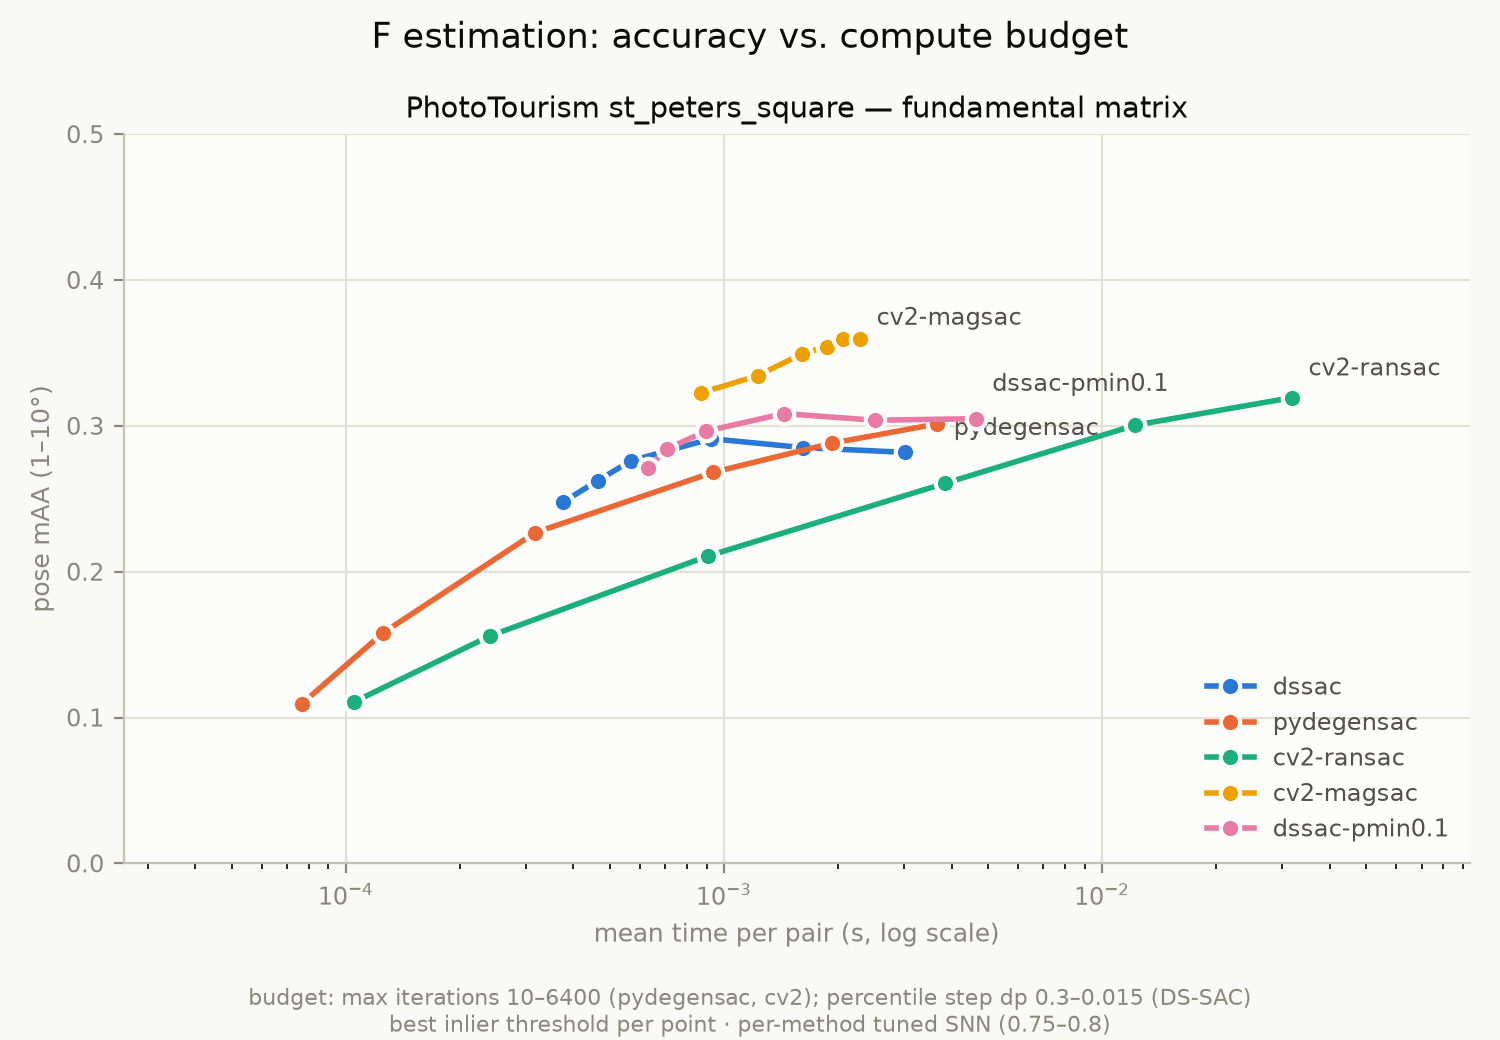
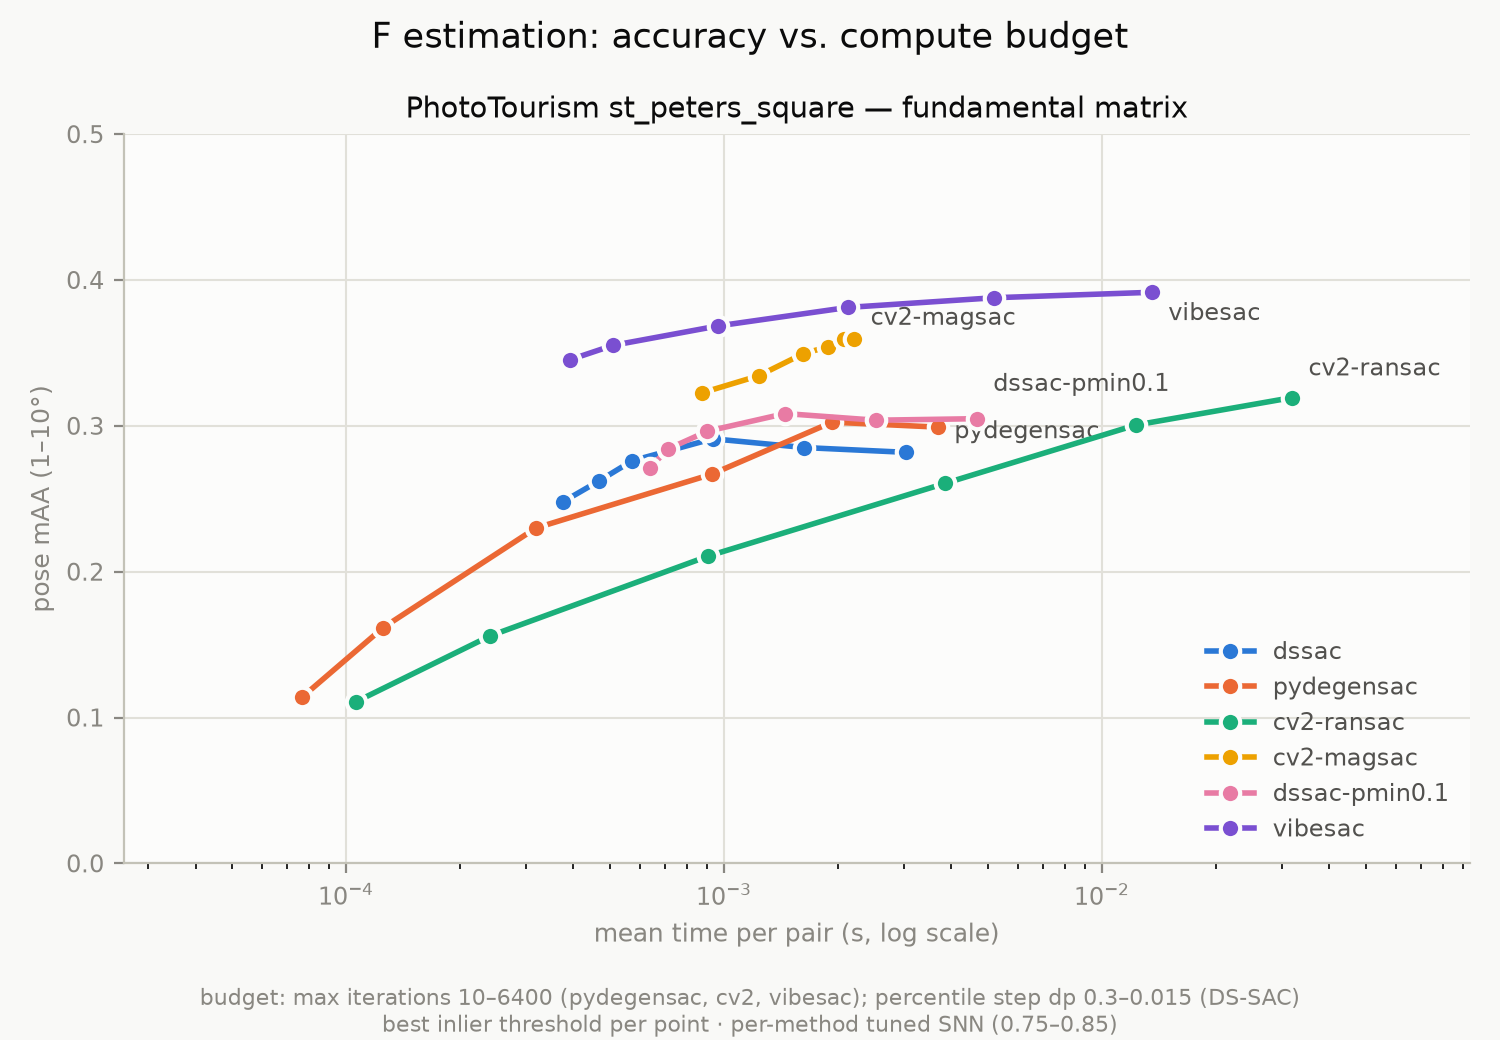
fix: guard vibesac's minimal-sample loop and finish its F benchmark
vibesac's 7-point rejection sampler spins forever when a pair has fewer
than min_samples=7 tentative matches (1096/4950 pairs at SNN<=0.6); guard
before calling it. Also fixes a signature mismatch introduced alongside
vibesac's budget factory: time_maa_f.py now passes a 4th scores arg to
every F_BUDGETS factory, but the other three never accepted it, so any
fresh run of the time-mAA sweep silently failed every call.

Results: vibesac wins the SNN sweep outright (0.388 mAA@10 at SNN 0.85,
vs 0.359 for MAGSAC++) and dominates the whole time-mAA frontier, while
also degrading far more gracefully on unfiltered input than every other
method. README, table, and figure updated accordingly.

Claude-Session: https://claude.ai/code/session_01J6A14X131AP2hxqf9wuspJ

diff --git a/bench/f_methods.py b/bench/f_methods.py
@@ -50,6 +50,10 @@ def run_pydegensac_f(pts1, pts2, th, scores=None):
 
 def _vibesac_method(max_trials=MAX_ITERS):
     def run(pts1, pts2, th, scores=None):
+        # vibesac's minimal-sample rejection loop spins forever if asked for
+        # 7 unique indices out of fewer than 7 points; guard before it hangs.
+        if len(pts1) < 7:
+            return None, np.zeros(len(pts1), bool)
         # PROSAC assumes quality-ordered input: sort by SNN ratio ascending
         # (best first) and map the returned mask back to the input order.
         if scores is not None:
@@ -82,7 +86,7 @@ if _vibesac is not None:
 
 def _dssac_f_budget(p_min):
     def factory(dp):
-        def run(pts1, pts2, th):
+        def run(pts1, pts2, th, scores=None):
             return dssac.find_fundamental(pts1, pts2, threshold=th, dp=dp,
                                           p_min=p_min)
         return run
@@ -90,7 +94,7 @@ def _dssac_f_budget(p_min):
 
 
 def _pydegensac_f_budget(max_iters):
-    def run(pts1, pts2, th):
+    def run(pts1, pts2, th, scores=None):
         F, mask = pydegensac.findFundamentalMatrix(pts1, pts2, th, CONF,
                                                    max_iters)
         if F is None:
@@ -99,9 +103,13 @@ def _pydegensac_f_budget(max_iters):
     return run
 
 
+def _vibesac_f_budget(max_trials):
+    return _vibesac_method(max_trials)
+
+
 def _cv2_f_budget(flag):
     def factory(max_iters):
-        def run(pts1, pts2, th):
+        def run(pts1, pts2, th, scores=None):
             F, mask = cv2.findFundamentalMat(pts1, pts2, flag, th,
                                              confidence=CONF,
                                              maxIters=max_iters)
@@ -124,3 +132,5 @@ F_BUDGETS = {
     "cv2-ransac": (_ITER_BUDGETS_F, _cv2_f_budget(cv2.FM_RANSAC), 0.8),
     "cv2-magsac": (_ITER_BUDGETS_F, _cv2_f_budget(cv2.USAC_MAGSAC), 0.75),
 }
+if _vibesac is not None:
+    F_BUDGETS["vibesac"] = (_ITER_BUDGETS_F, _vibesac_f_budget, 0.85)

diff --git a/bench/plot_time_maa_f.py b/bench/plot_time_maa_f.py
@@ -49,7 +49,7 @@ def main():
     for ax, sc in zip(axes[0], scenes):
         draw_panel(ax, curves[sc], f"PhotoTourism {sc} — fundamental matrix",
                    stagger={"dssac": None, "pydegensac": -4, "cv2-ransac": 8,
-                            "dssac-pmin0.1": 10})
+                            "dssac-pmin0.1": 10, "vibesac": -10})
         ax.set_xlabel("mean time per pair (s, log scale)", color=MUTED, fontsize=9)
     axes[0, 0].set_ylabel("pose mAA (1–10°)", color=MUTED, fontsize=9)
     axes[0, 0].set_ylim(0, 0.5)
@@ -58,8 +58,8 @@ def main():
     fig.suptitle("F estimation: accuracy vs. compute budget",
                  color=INK, fontsize=12.5)
     fig.text(0.5, 0.008,
-             "budget: max iterations 10–6400 (pydegensac, cv2); percentile step dp 0.3–0.015 (DS-SAC)\n"
-             "best inlier threshold per point · per-method tuned SNN (0.75–0.8)",
+             "budget: max iterations 10–6400 (pydegensac, cv2, vibesac); percentile step dp 0.3–0.015 (DS-SAC)\n"
+             "best inlier threshold per point · per-method tuned SNN (0.75–0.85)",
              ha="center", fontsize=8, color=MUTED)
     fig.tight_layout(rect=(0, 0.06, 1, 1))
     out = ROOT / args.out

diff --git a/bench/plot_time_maa.py b/bench/plot_time_maa.py
@@ -24,6 +24,7 @@ COLORS = {
     "cv2-ransac": "#1baf7a",
     "cv2-magsac": "#eda100",
     "dssac-pmin0.1": "#e87ba4",  # only present in the F benchmark
+    "vibesac": "#7a4fd1",  # only present in the F benchmark
 }
 SURFACE, PAGE = "#fcfcfb", "#f9f9f7"
 INK, INK2, MUTED = "#0b0b0b", "#52514e", "#898781"

diff --git a/README.md b/README.md
@@ -190,7 +190,10 @@ Benchmark: one PhotoTourism validation scene (st_peters_square, 4950 pairs) fetc
 needed h5 files precede the images in the tar). Metric: max(rotation, translation) angular
 error of the pose recovered from F (converted to E with GT intrinsics), per
 [ransac-benchmark-2025](https://github.com/ducha-aiki/ransac-benchmark-2025), mAA over 1–10°.
-This data ships **unfiltered**, so the protocol sweeps the SNN ratio threshold for all methods:
+This data ships **unfiltered**, so the protocol sweeps the SNN ratio threshold for all methods.
+Baselines also include `vibesac` — a seeded, PROSAC-ordered LO-RANSAC (7-point minimal solver)
+reference implementation from ransac-benchmark-2025's `ransac_benchmark_imc.vibesac`, using the
+SNN ratio as the PROSAC ordering score:
 
 ```bash
 bench/setup_f_data.sh
@@ -207,10 +210,15 @@ Best mAA@10° (over the 0.5–2 px inlier-threshold sweep) per method × SNN thr
 | pydegensac | 0.203 | 0.242 | 0.267 | 0.277 | **0.297** | 0.280 | 0.050 |
 | cv2-ransac | 0.173 | 0.210 | 0.253 | 0.281 | **0.303** | 0.291 | 0.074 |
 | cv2-magsac | 0.255 | 0.294 | 0.331 | **0.359** | 0.355 | 0.325 | 0.118 |
+| vibesac | 0.209 | 0.253 | 0.296 | 0.341 | 0.372 | **0.388** | 0.310 |
 
 Takeaways:
 
-- Every method peaks at SNN 0.75–0.8 and collapses without filtering (mAA ≤ 0.12 even for
+- `vibesac` wins outright — 0.388 mAA@10° at SNN 0.85, ahead of MAGSAC++'s 0.359 — and is far
+  more robust to unfiltered input: 0.310 mAA with SNN off entirely, vs. 0.05–0.12 for every
+  other method. Its PROSAC ordering by SNN ratio evidently does most of the work that explicit
+  ratio-filtering does for the rest of the field.
+- Every other method peaks at SNN 0.75–0.8 and collapses without filtering (mAA ≤ 0.12 even for
   MAGSAC++): the raw tentative matches often have 11–15% inliers, too few for reliable F
   estimation across the board.
 - `p_min = 0.1` helps DS-SAC at *every* SNN level (+0.02–0.04 mAA for ~1.6× runtime,
@@ -227,13 +235,17 @@ Takeaways:
 ![F time-mAA curve](assets/time_maa_f.png)
 
 Same construction as the homography figure, at each method's tuned SNN threshold: budget =
-`maxIters` 10–6400 for the RANSAC family, percentile step `dp` 0.3–0.015 for both DS-SAC
-variants; each point reports the best pose mAA over the 0.5–2 px inlier-threshold sweep against
-measured mean runtime. MAGSAC++ dominates; `dssac-pmin0.1` traces the second-best frontier
-(0.27 → 0.31 over 0.7–4.5 ms), staying above pydegensac until pydegensac's largest budgets
-catch up, while cv2-RANSAC needs ~7x more time for comparable accuracy. The default-`p_min`
-DS-SAC curve sits consistently below the `p_min = 0.1` variant — on this data the deeper
-search tree buys more than a finer percentile step does.
+`maxIters` 10–6400 for the RANSAC family (pydegensac, cv2, vibesac), percentile step `dp`
+0.3–0.015 for both DS-SAC variants; each point reports the best pose mAA over the 0.5–2 px
+inlier-threshold sweep against measured mean runtime. `vibesac` dominates the frontier: its
+cheapest budget (10 iters, 0.4 ms, mAA 0.345) already beats the best budget of every other
+method except MAGSAC++ (0.360), and by its third-cheapest budget (1.0 ms) it has overtaken
+MAGSAC++ too, climbing to 0.39 mAA by 13 ms with no other method ever catching up. Among the
+rest, MAGSAC++ is best, with `dssac-pmin0.1` tracing the second-best frontier
+(0.27 → 0.31 over 0.7–4.5 ms), staying above
+pydegensac until pydegensac's largest budgets catch up, while cv2-RANSAC needs ~7x more time for
+comparable accuracy. The default-`p_min` DS-SAC curve sits consistently below the `p_min = 0.1`
+variant — on this data the deeper search tree buys more than a finer percentile step does.
 
 Reproduce:
 